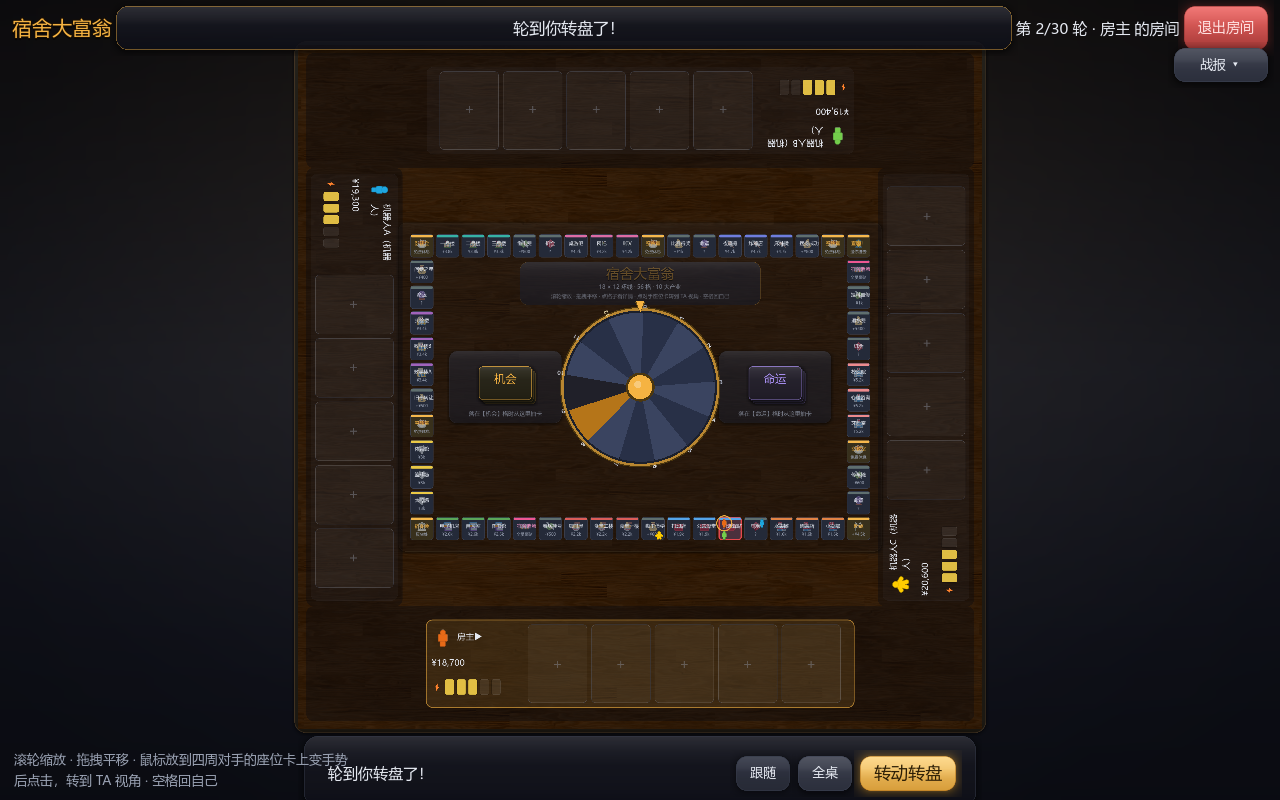
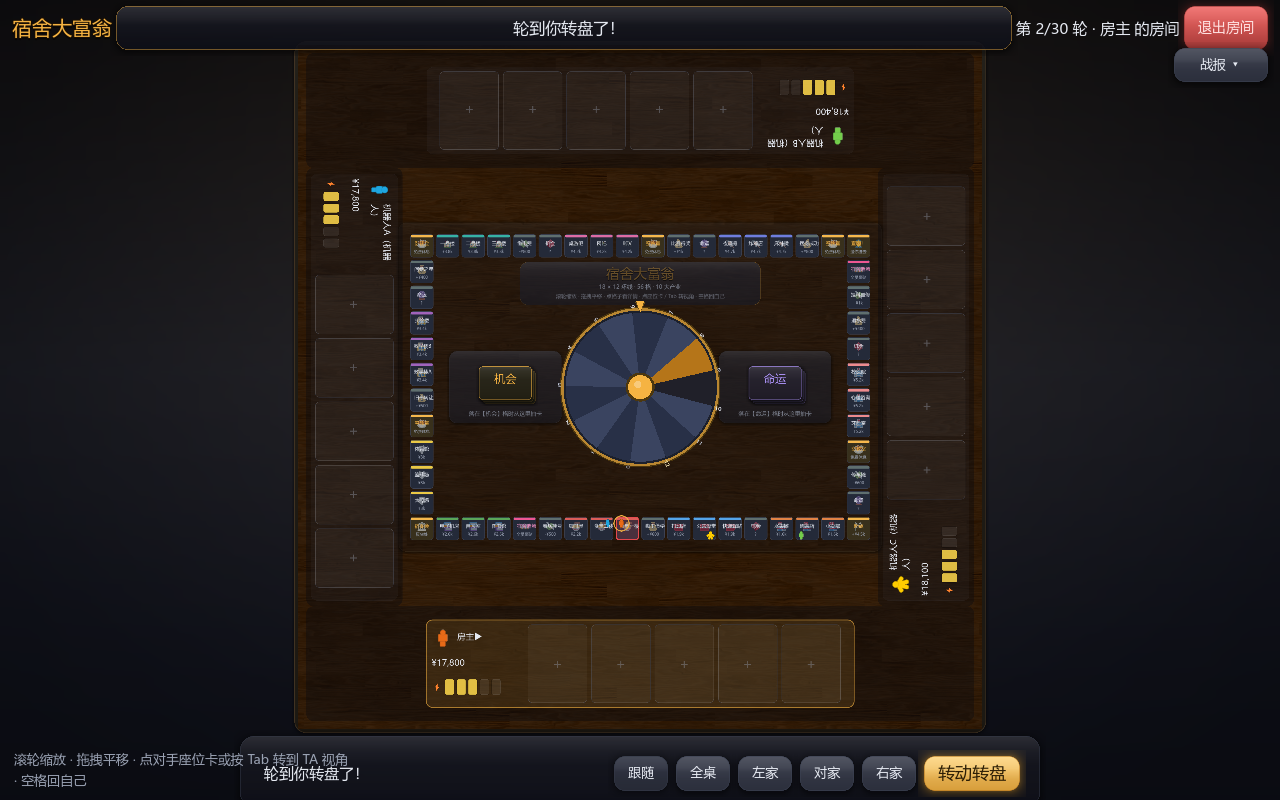
视角切换可发现性修复：底部行动条常驻「左家/对家/右家」按钮 + Tab 循环切视角（镜头跟棋子时座位卡常在屏外点不到），悬停提亮+手势光标，点击热区=整条座位栏

diff --git a/README.md b/README.md
@@ -74,8 +74,9 @@
 - **四人围桌**：整屏是一张木纹桌面，棋盘铺在中央，四家座位分坐下/左/上/右边，
   座位上摆着各自的头像、现金、体力槽和 **5 个道具牌位**；对手的信息与牌位按**他们的视角**
   摆放——上家的牌你看着是倒的、左右两家是横的，跟真围一张桌子一样。
-- 视角：**点谁的座位就转到谁的视角**（TA 的区域转到屏幕下方变正），点自己座位或按
-  **空格**回自己视角，「全桌」一键看全景；转到别人视角时对局镜头不会把你拽回来。
+- 视角：**点谁的座位卡就转到谁的视角**（TA 的区域转到屏幕下方变正；悬停会提亮并变手势光标），
+  或按 **Tab** 循环看三家、点底部「左家 / 对家 / 右家」按钮直达；**空格**或点自己座位回自己视角，
+  「全桌」看全景；转到别人视角时对局镜头不会把你拽回来。
 - 棋盘：**滚轮缩放**、**拖拽平移**（拖一下就解除跟随）、「跟随」按钮回到镜头跟随，
   轮到谁行动镜头自动跟到谁（仅在自己视角时），行动棋子带脉冲光环。
 - 战报 / 聊天收进右上角折叠面板，点「战报」展开；底部行动条集中状态与「转动转盘」。
